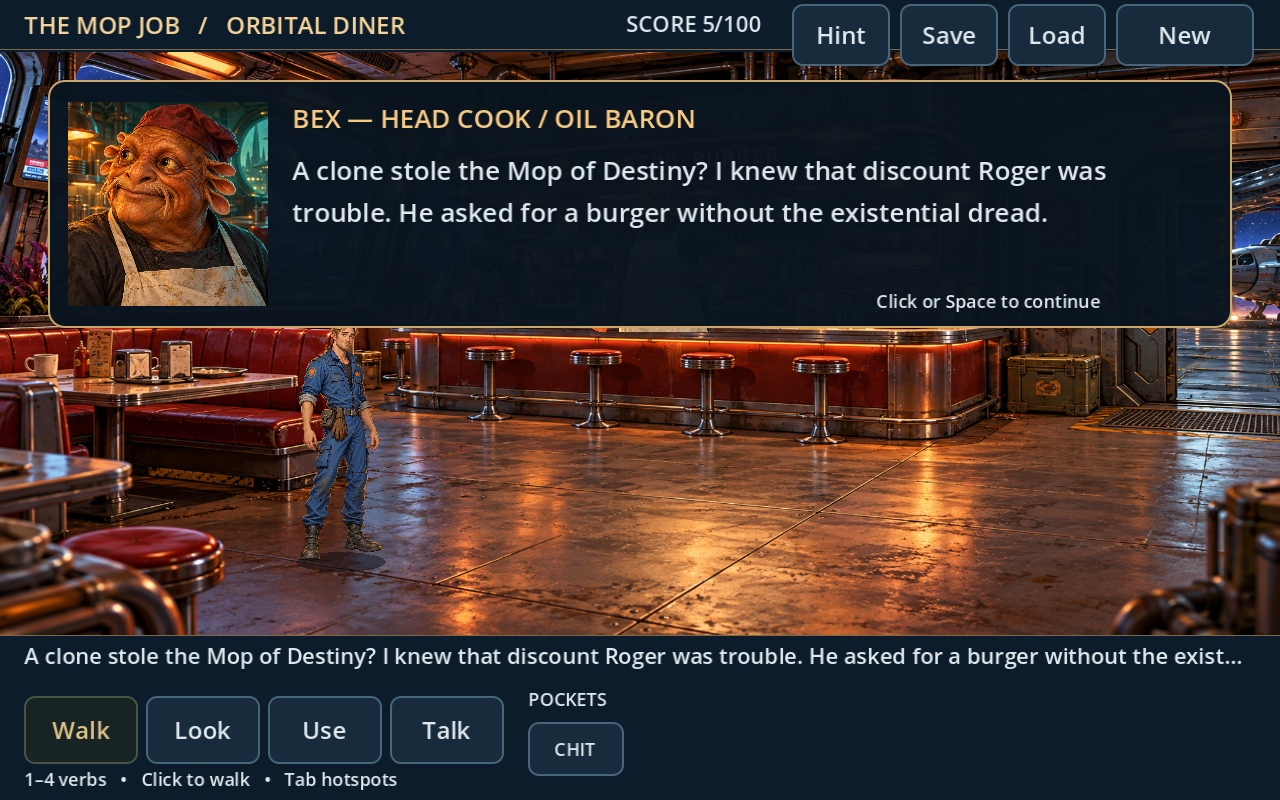
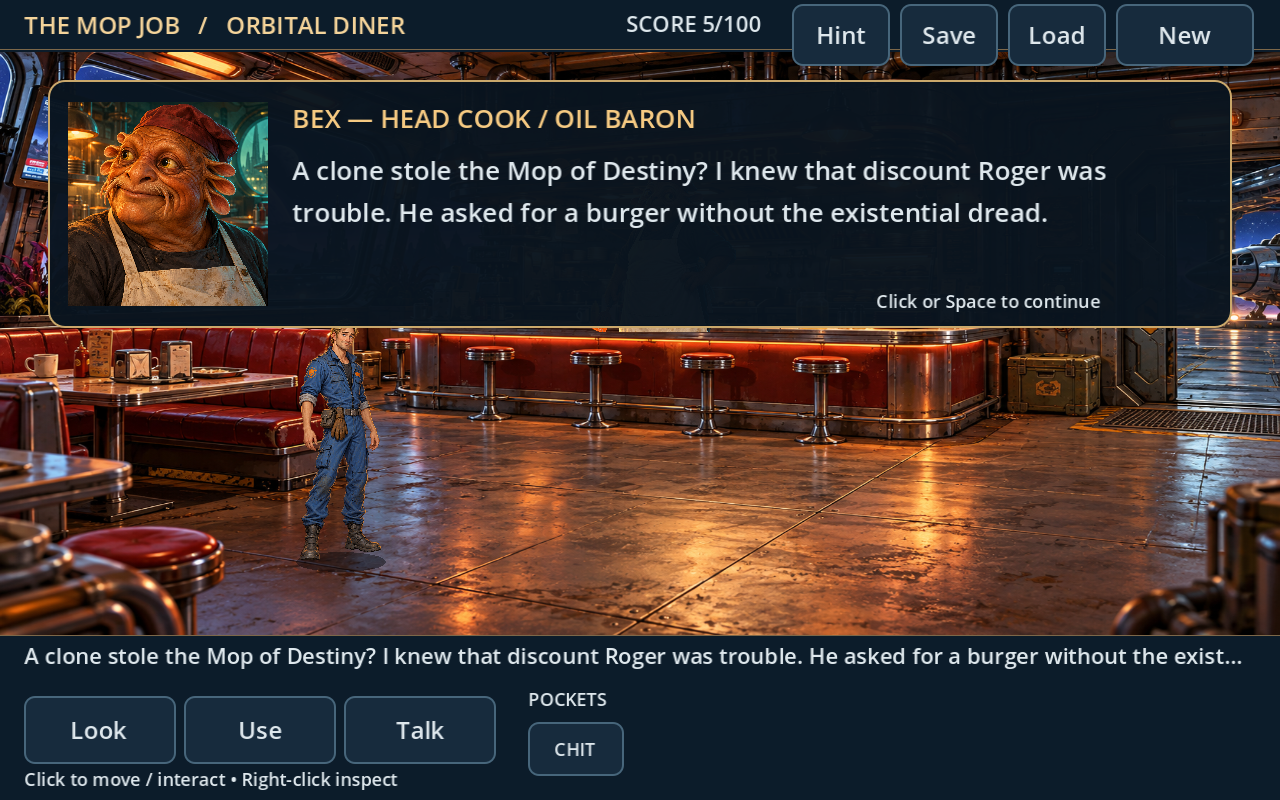
Make movement and object interaction work directly from clicks

Changed region(s): [[0.0, 0.8438, 0.3125, 1.0], [0.3125, 0.9062, 0.375, 0.9375], [0.375, 0.875, 0.4062, 0.9062]]

diff --git a/README.md b/README.md
@@ -1,6 +1,6 @@
-# Space Quest — The Mop Job
+# Space Quest VII — Mopocalypse Now
 
-A playable, original 2D point-and-click adventure chapter inspired by the comic science-fiction storytelling of Space Quest. The presentation uses detailed illustrated room backgrounds and a modern widescreen interface. Classic adventure verbs, inventory puzzles, dialogue, and room navigation drive the story.
+A playable, original 2D point-and-click adventure chapter inspired by the comic science-fiction storytelling of Space Quest. **Chapter one: The Mop Job** uses detailed illustrated room backgrounds and a modern widescreen interface. Click objects to interact, people to talk, and the floor to walk; inventory puzzles and dialogue drive the story.
 
 This build covers **three connected rooms**: the Orbital Diner (Astro-Burger), Service Dock 7, and the Arcada Memorial Museum. It is an opening chapter with its own puzzle sequence and departure ending. The larger sixteen-room adventure in the original concept is still future work. No artwork, audio, or files from Sierra's games are included.
 
@@ -18,10 +18,11 @@ Import this project directly. Avoid copying its contents into an existing Godot 
 
 ## Controls
 
-- Click the verb buttons or press **1–4** to choose **Walk, Look, Use, Talk**.
-- **Walk**: click the floor to move, or a room exit to leave. Other interactions walk the character into position first.
-- **Look**: inspect people and objects for clues. **Talk**: speak to characters.
-- **Use**: interact with an object. Select an inventory item, then click its target to use it there. Select one inventory item, then click another to combine them.
+- **Left-click the floor** to walk automatically, even while an inventory item or optional action is selected.
+- **Left-click a person or object** to approach and perform its usual action: talk, inspect, pick up, operate, or travel through a doorway.
+- **Select an inventory item**, then click its target to use it there. Select one inventory item, then click another to combine them.
+- **Right-click an object** to inspect it. **Right-click empty floor** or press **Esc** to clear an item or action selection and return to automatic interactions.
+- Optional **Look, Use, Talk** buttons choose a specific action. Click the active button again to return to automatic interactions. Keyboard: **1** automatic interaction, **2** Look, **3** Use, **4** Talk.
 - **Tab**: show hotspot hints. **I**: inventory hint.
 - **F5**: save progress. **F9**: load progress. Use the on-screen controls to save, load, or start a new game too.
 
@@ -29,26 +30,24 @@ There is one local save slot, stored in Godot's per-user application data direct
 
 ## Walkthrough (spoilers)
 
-1. At Astro-Burger, look at the news screen and talk to the cook. Get a service chit and permission to take the grease.
-2. Use the grease jar. Select the grease in your inventory and use it on the maintenance panel to repair the hatch. Walk through the exit to the dock.
+1. At Astro-Burger, click the news screen, then click the cook. Get a service chit and permission to take the grease.
+2. Click the grease jar to pick it up. Select the grease in your inventory and click the maintenance panel to repair the hatch. Click the doorway to enter the dock.
 3. Give the service chit to the dock guard to receive a keycard and maintenance pass.
-4. Use the keycard on the locker to collect a mop and cleaner. Use the keycard on the terminal to authorize museum access, then enter the museum.
+4. Use the keycard on the locker to collect the cleaner and release the mop's magnetic lock. Click the mop leaning beside the locker to pick it up. Use the keycard on the terminal to authorize museum access, then click the museum lift.
 5. Talk to the guardian for a clue. Use your maintenance pass on the guardian to enable cleaning mode.
-6. Combine the cleaner and mop in your inventory. Use the charged mop on the spill to clear the floor, then use the plinth to collect the star map.
-7. Return to the dock. Use the star map on the terminal to set the coordinates, then use the shuttle to finish the chapter.
+6. Combine the cleaner and mop in your inventory. Use the charged mop on the spill to clear the floor, then click the plinth to collect the star map.
+7. Click the museum exit to return to the dock. Use the star map on the terminal to set the coordinates, then click the shuttle to finish the chapter.
 
 ## Development and verification
 
-Validated in Godot 4.4.1: clean project import, **51 passing integration checks**, and visually inspected graphical captures of all three rooms and portrait dialogue.
-
-The project targets Godot **4.4.1** with its Compatibility renderer. Validation on Linux passed a clean Godot import, **51 integration checks**, and a graphical screenshot run. Run these from the project folder, substituting the path to your Godot executable:
+The project targets Godot **4.4.1** with its Compatibility renderer. Validation on Linux includes a clean project import, **79 passing integration checks**, and visually inspected graphical captures of all three rooms and portrait dialogue. Run these from the project folder, substituting the path to your Godot executable:
 
 ```sh
 /path/to/Godot --headless --editor --path . --quit
 /path/to/Godot --headless --path . --script tests/smoke.gd
 ```
 
-Use a separate `XDG_DATA_HOME` directory when running the smoke test on Linux; it exercises the game's save slot. The test checks blocked actions, item combinations and consumption, all three rooms, the ending, real mouse events through buttons and world hotspots, and saving/loading/resetting progress.
+Use a separate `XDG_DATA_HOME` directory when running the smoke test on Linux; it exercises the game's save slot. The test checks automatic floor movement and object actions, optional verbs, inspection and cancellation, blocked pickups, item combinations and consumption, all three rooms, the ending, and saving/loading/resetting progress. Input checks send real mouse and keyboard events through the interface and world hotspots.
 
 `tests/capture.gd` is an optional screenshot helper and requires a graphical display:
 
@@ -60,6 +59,6 @@ Capture room IDs are `diner`, `dock`, and `museum`. Omit `--output` to write `ca
 
 ## Current scope
 
-Included: three illustrated rooms, character movement, Walk/Look/Use/Talk, contextual dialogue, inventory selection and combination, a connected puzzle chain, blocked progression with hints, a chapter ending, and local save/load/new game.
+Included: three illustrated rooms, automatic floor walking and contextual object interactions, optional Look/Use/Talk actions, dialogue, world pickups, inventory selection and combination, a connected puzzle chain, blocked progression with hints, a chapter ending, and local save/load/new game.
 
 Still to build: the remaining story locations, a full adventure finale, richer character animation, music and sound, voiced dialogue, death sequences, the burger minigame, and a tested standalone Windows export. The artwork is original and AI-assisted; character animation remains simpler than the backgrounds. This chapter provides a working basis for expanding and polishing the adventure.
